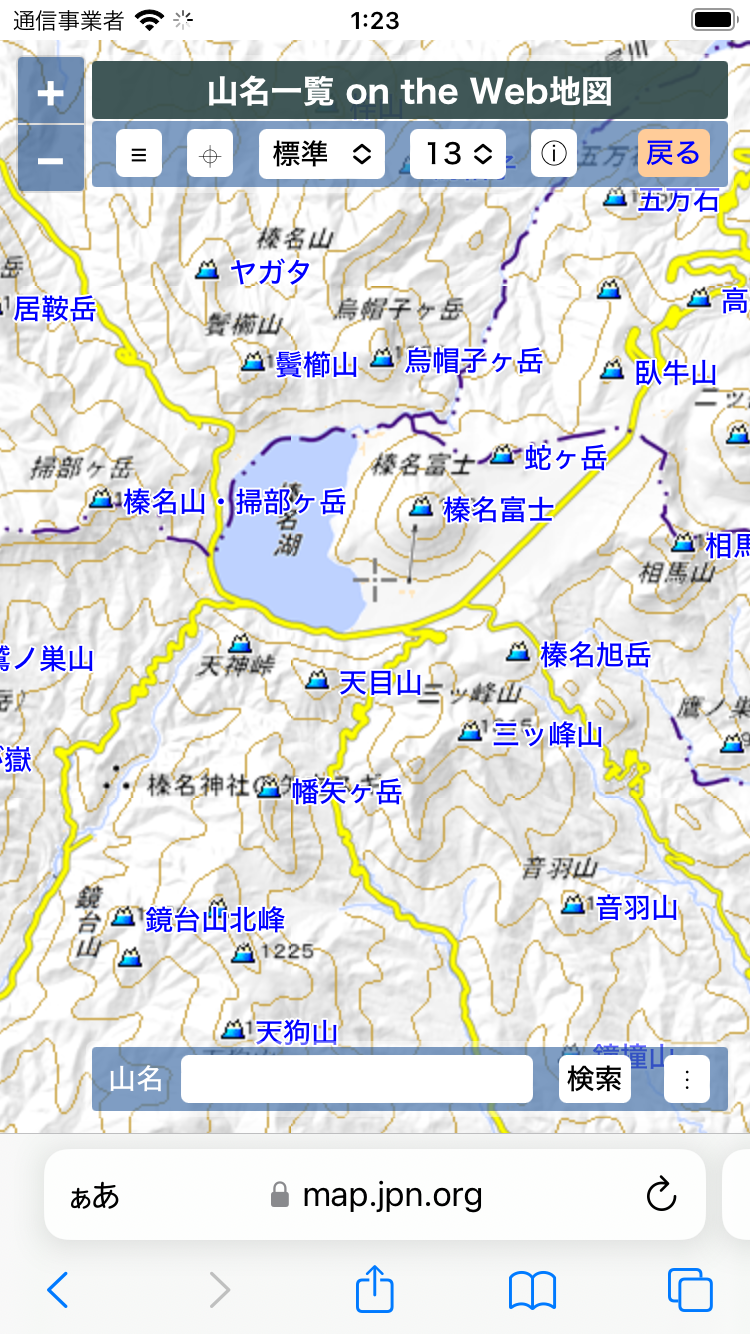
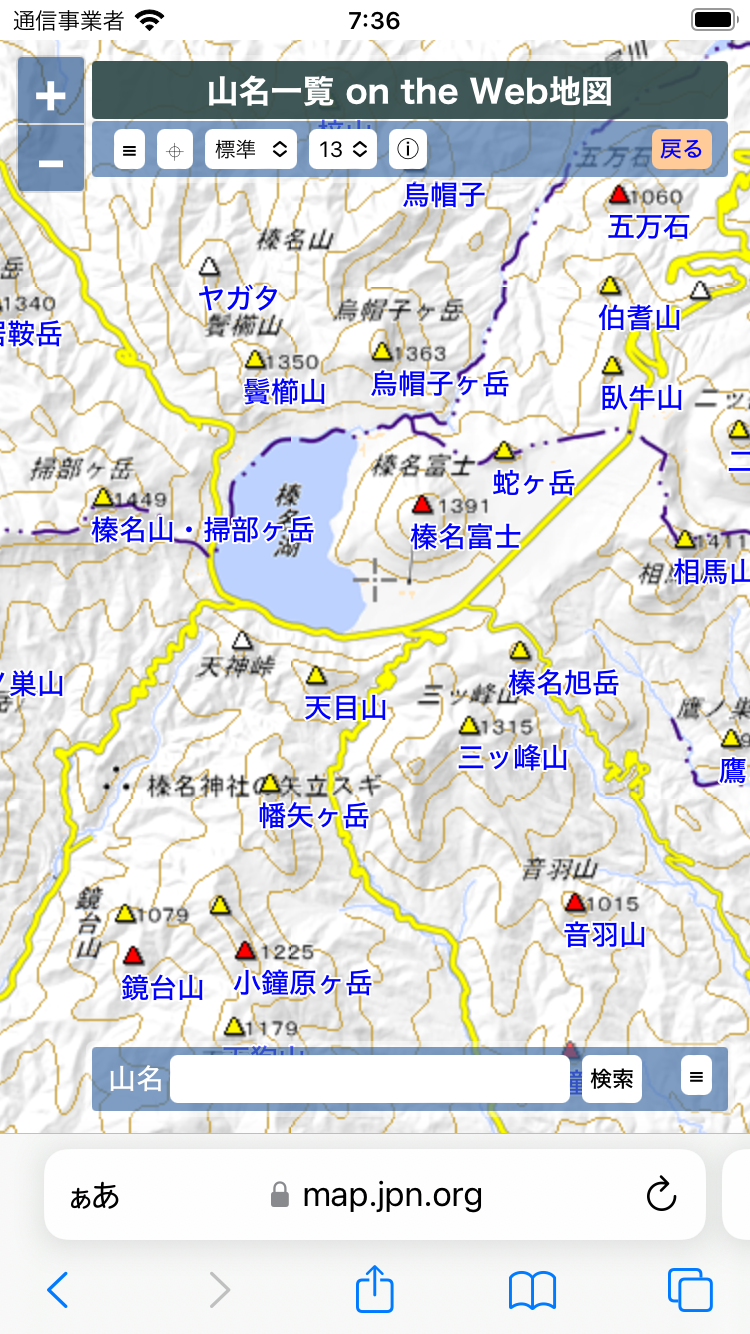
update help and credits

diff --git a/docs/mountain/help.html b/docs/mountain/help.html
@@ -37,31 +37,33 @@ figure {
 <p>情報の正確性と精度には留意しておりますが、誤りがありましたら<a href="https://map.jpn.org/bbs/">サポート掲示板</a>でお知らせ下さい。未登録の山の情報や、このサイトに関するご意見・ご質問もサポート掲示板へお願いします。</p>
 <h2>ヘルプ</h2>
 <p>例として、本サイトをスマートフォンで表示した場合の画面を図1に示します。PCで表示した場合はレイアウトが変わりますが、操作方法は同様です。地図をスムーズにスクロールしたり、ズームしたり、回転させることができます。PCの場合の回転は、Shift+Altキーとマウス右ボタンを同時に押しながらマウスカーソルを動かして行います。</p>
-<p>なお、図1にある<span style="color:blue;">榛名山・掃部ヶ岳</span>のような"・"を含む山名は、<span style="color:blue;">総称・ピーク名</span>を表します。総称は原則として山域の最高峰に付記されます。</p>
+<p>なお、山頂アイコンは、<img src="share/902030.png">が基準点（電子基準点、一等〜四等三角点）、<img src="share/902031.png">が標高点、<img src="share/902029.png">がその他を表します。また、図1にある<span style="color:blue;">榛名山・掃部ヶ岳</span>のような"・"を含む山名は、<span style="color:blue;">総称・ピーク名</span>を表します。総称は原則として山域の最高峰に付記されます。</p>
 <figure>
 <img src="mountain/Fig01.png" srcset="mountain/2x/Fig01.png 2x" width="375" height="667" alt="">
 <figcaption>図1 スマートフォンによる表示例</figcaption>
 </figure>
-<p>青字の山名または<img src="icon/952015.png" alt="山頂">のアイコンをクリックすると、その山の情報がポップアップで表示されます（図2）。ポップアップは右上の ✖ をクリックすると消えます。</p>
+<p>青字の山名または山頂アイコンをクリックすると、その山の情報がポップアップで表示されます（図2）。基準点と標高点の場合、表示される標高、緯度、経度は基盤地図情報の基準点と標高点のデータにそれぞれ基づいており、表示桁数の範囲で正確です。ポップアップは右上の ✖ をクリックすると消えます。</p>
 <figure>
 <img src="mountain/Fig02.png" srcset="mountain/2x/Fig02.png 2x" width="375" height="667" alt="">
 <figcaption>図2 ポップアップの表示</figcaption>
 </figure>
-<p>山名に別名があれば、ポップアップに表示されます（図5）。ポップアップに表示される<span style="color:blue;">所在</span>は、国土数値情報（行政区域）を利用して、<span style="color:blue;">緯度</span>と<span style="color:blue;">経度</span>から都道府県＋市区町村を逆ジオコーディングで求めたものです。ただし、行政区域の境界付近にある山の場合は、隣接する行政区域に属する／属しないの結果が、地形図から読み取れる結果と相違する場合があります。</p>
+<p>山名に別名があれば、ポップアップに表示されます（図5）。ポップアップに表示される<span style="color:blue;">所在</span>は、国土数値情報（行政区域）を利用して、<span style="color:blue;">緯度</span>と<span style="color:blue;">経度</span>から都道府県＋市区町村を逆ジオコーディングで求めたものです。</p>
 <p><span style="color:blue;">ID</span>は、データベースによる管理のため、それぞれの山に一意に割り振られた識別番号（identification number）です。その値はデータベースへの登録順（欠番あり）で、その他の意味は特にありません。</p>
 <p>それぞれのボタンとチェックボックスの機能を、図3で付記した<span style="color:red;">丸数字</span>を用いて説明します。</p>
 <figure>
 <img src="mountain/Fig03.png" srcset="mountain/2x/Fig03.png 2x" width="375" height="667" alt="">
 <figcaption>図3 ボタンとチェックボックスの配置</figcaption>
 </figure>
-<p><span style="color:red;">①</span> 下段のメニュー（<span style="color:red;">⑥</span>、<span style="color:red;">⑦</span>）の表示をオン／オフ。<br>
+<p><span style="color:red;">①</span> 下段のメニュー（<span style="color:red;">⑥</span>、<span style="color:red;">⑦</span>、<span style="color:red;">⑧</span>、<span style="color:red;">⑨</span>）の表示をオン／オフ。<br>
 <span style="color:red;">②</span> 十字線で示される中心位置にポップアップを表示（図4）。<br>
 <span style="color:red;">③</span> ベースマップ（標準、淡色、写真、OTM）を選択。<br>
 <span style="color:red;">④</span> ズームレベルを選択。<br>
 <span style="color:red;">⑤</span> このページを表示。<br>
 <span style="color:red;">⑥</span> 山名とアイコンの表示をオン／オフ。<br>
 <span style="color:red;">⑦</span> 中心位置の十字線の表示をオン／オフ。<br>
-<span style="color:red;">⑧</span> 検索結果の表示を一時的にオン／オフ。</p>
+<span style="color:red;">⑧</span> 表示中の山のIDを示す。◁ボタンで前、▷ボタンで次のIDの山にそれぞれ移動。<br>
+<span style="color:red;">⑨</span> 管理パネルを開く（要ログイン）。<br>
+<span style="color:red;">⑩</span> 検索結果の表示を一時的にオン／オフ。</p>
 <figure>
 <img src="mountain/Fig04.png" srcset="mountain/2x/Fig04.png 2x" width="375" height="667" alt="">
 <figcaption>図4 中心位置のポップアップ</figcaption>
@@ -76,7 +78,7 @@ figure {
 <p><span style="color:blue;">%</span>：山名の先頭または末尾に指定し、任意の文字列を表します。例えば、"<span style="color:blue;">%猫%</span>"で検索すると、漢字の"猫"を含む山名の一覧が表示されます。なお、検索結果の件数の上限は1000で、上限を越えた分は表示されません。<br>
 <span style="color:blue;">＠</span>：山名に続いて指定し、続けて所在を記述すると、所在についての前方一致検索を行なって、検索結果を限定します。例えば、"<span style="color:blue;">%@群馬県桐生市</span>"で検索すれば、群馬県桐生市にある山の一覧が表示されます。ただし、行政区域の境界にある山は、検索結果に含まれない場合があるので注意が必要です。</p>
 <p>その他、検索文字列を数値とすると、数値に一致するIDをもつ山を検索します。特に"<span style="color:blue;">0</span>"で検索すると、最も大きなIDから100件を表示します。これはデータベースに新規に登録した山の確認に用いています。</p>
-<p><span style="color:red;">新機能</span>：検索結果に［保存］ボタンが付きました。［保存］を実行すると、検索結果をCSVファイルでダウンロードできます。CSVファイル内の文字コードはUTF-8、緯度、経度はDEG形式（10進表記）です。</p>
+<p>［保存］を実行すると、検索結果をCSVファイルでダウンロードできます。CSVファイル内の文字コードはUTF-8、緯度、経度はDEG形式（10進表記）です。</p>
 <h2>クレジット表記</h2>
 <p>この地図の作成にあたっては、国土地理院長の承認を得て、同院発行の数値地図25000
 （地名・公共施設）を使用した。
@@ -94,6 +96,7 @@ figure {
 <p>その他、下記のデータ、ウェブサービス、コードを利用している。</p>
 <ul>
 <li><a href="https://nlftp.mlit.go.jp/">国土数値情報</a>（国土交通省）の行政区域データ（加工して利用）</li>
+<li><a href="https://www.gsi.go.jp/kiban/">基盤地図情報</a>（国土地理院）の「測量の基準点」「標高点」のデータ（加工して利用）</li>
 <li><a href="https://maps.gsi.go.jp/development/elevation_s.html">地理院標高API</a></li>
 <li><a href="https://openlayers.org/">OpenLayers</a></li>
 <li><a href="https://github.com/walkermatt/ol-popup">OpenLayers Popup</a></li>

diff --git a/docs/map/help.html b/docs/map/help.html
@@ -33,7 +33,7 @@ figure {
 <img src="map/Fig01.png" srcset="map/2x/Fig01.png 2x" width="375" height="667" alt="">
 <figcaption>図1 スマートフォンによる表示例</figcaption>
 </figure>
-<p>青字または黄色字の山名や、<img src="symbols/Summit.png" width="24" height="24" alt="山頂">のアイコンをクリックすると、その山の情報がポップアップで表示され、登頂した山行記録を検索して表示します（図2）。ポップアップは右上の ✖ をクリックすると消えます。検索結果の山行記録をクリックすると、当該ページにジャンプします。なお、青字は検索結果が1件以上ある山、黄色字（図1では右下の"観音山"や"庚申山"）は山行記録がない山を表します。</p>
+<p>青字または黄色字の山名や、山頂のアイコンをクリックすると、その山の情報がポップアップで表示され、登頂した山行記録を検索して表示します（図2）。ポップアップは右上の ✖ をクリックすると消えます。検索結果の山行記録をクリックすると、当該ページにジャンプします。なお、青字は検索結果が1件以上ある山、黄色字（図1では右下の"観音山"）は山行記録がない山を表します。</p>
 <figure>
 <img src="map/Fig02.png" srcset="map/2x/Fig02.png 2x" width="375" height="667" alt="">
 <figcaption>図2 ポップアップと山行記録の表示</figcaption>
@@ -44,14 +44,15 @@ figure {
 <img src="map/Fig03.png" srcset="map/2x/Fig03.png 2x" width="375" height="667" alt="">
 <figcaption>図3 ボタンとチェックボックスの配置</figcaption>
 </figure>
-<p><span style="color:red;">①</span> 下段のメニュー（<span style="color:red;">⑥</span>、<span style="color:red;">⑦</span>）の表示をオン／オフ。<br>
+<p><span style="color:red;">①</span> 下段のメニュー（<span style="color:red;">⑦</span>、<span style="color:red;">⑧</span>）の表示をオン／オフ。<br>
 <span style="color:red;">②</span> 十字線で示される中心位置にポップアップを表示（図4）。<br>
 <span style="color:red;">③</span> ベースマップ（標準、淡色、写真、OTM）を選択。<br>
 <span style="color:red;">④</span> ズームレベルを選択。<br>
 <span style="color:red;">⑤</span> このページを表示。<br>
-<span style="color:red;">⑥</span> 山名とアイコンの表示をオン／オフ。<br>
-<span style="color:red;">⑦</span> 中心位置の十字線の表示をオン／オフ。<br>
-<span style="color:red;">⑧</span> 山行記録の表示を一時的にオン／オフ。</p>
+<span style="color:red;">⑥</span> カテゴリを選択。<br>
+<span style="color:red;">⑦</span> 山名とアイコンの表示をオン／オフ。<br>
+<span style="color:red;">⑧</span> 中心位置の十字線の表示をオン／オフ。<br>
+<span style="color:red;">⑨</span> 山行記録の表示を一時的にオン／オフ。</p>
 <figure>
 <img src="map/Fig04.png" srcset="map/2x/Fig04.png 2x" width="375" height="667" alt="">
 <figcaption>図4 中心位置のポップアップ</figcaption>
@@ -95,6 +96,7 @@ figure {
 <p>その他、下記のデータ、ウェブサービス、コードを利用している。</p>
 <ul>
 <li><a href="https://nlftp.mlit.go.jp/">国土数値情報</a>（国土交通省）の行政区域データ（加工して利用）</li>
+<li><a href="https://www.gsi.go.jp/kiban/">基盤地図情報</a>（国土地理院）の「測量の基準点」「標高点」のデータ（加工して利用）</li>
 <li><a href="https://maps.gsi.go.jp/development/elevation_s.html">地理院標高API</a></li>
 <li><a href="https://openlayers.org/">OpenLayers</a></li>
 <li><a href="https://github.com/walkermatt/ol-popup">OpenLayers Popup</a></li>
